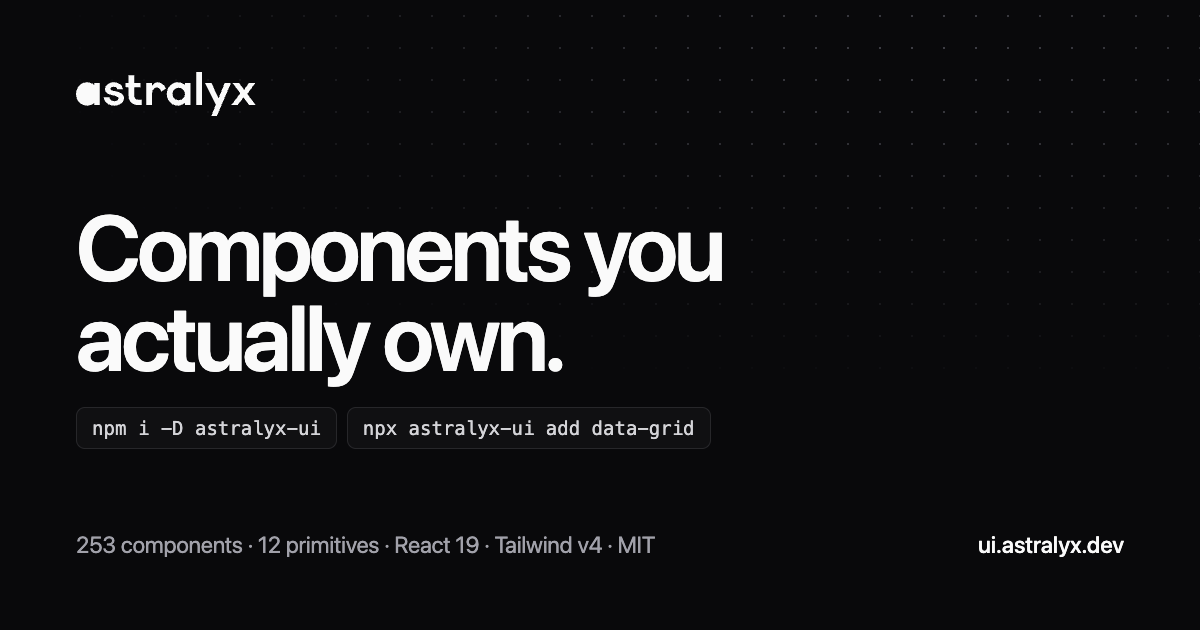
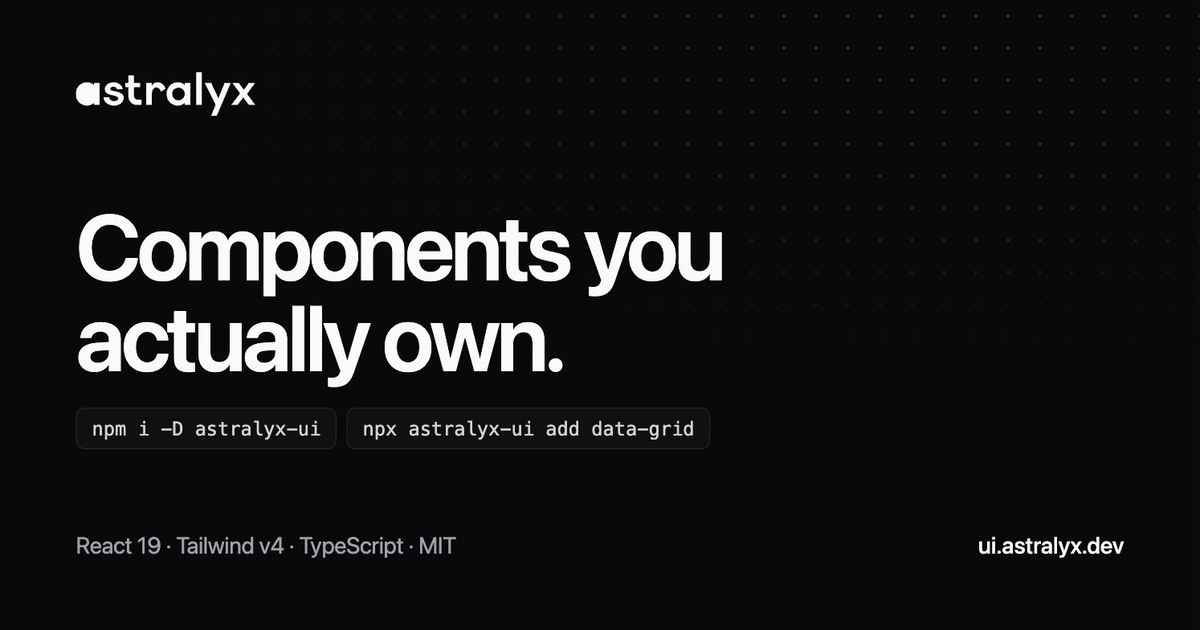
The link preview said 253 components
It has said 253 for as long as it took to add ninety more — in the meta
description, the OG and Twitter descriptions, the JSON-LD a search engine
reads, and burnt into the card image itself. The tags were all there and all
correct in shape; the copy inside them had rotted.

The counts come from the registry now. build-seo.mjs already loads ENTRIES to
build the sitemap, so the home description is composed from it and cannot
disagree with the catalogue again. The structured data was the one nobody was
rewriting at all, so it kept its own stale copy after the meta tags had been
corrected; it is rewritten from the same string.

The description was also being clamped mid-phrase. The old one ran to 163
characters against a 155 limit, so every search result ended on the word "at".
The new one fits.

The card is regenerated and quotes no count. An OG image is cached by every
platform that has ever unfurled the link, which makes it the worst place in
the site for a number that moves; it carries the durable facts and the live
count stays in the description. Its source now lives in the repo as
scripts/og-card.html rather than only as a PNG nobody could edit.

No version bump: nothing here changes a component.

diff --git a/scripts/og-card.html b/scripts/og-card.html
@@ -1,0 +1,54 @@
+<!--
+  The 1200x630 link preview at public/og.png is a render of this file.
+
+  Kept as source rather than only as the PNG, so the card can be changed
+  without redrawing it: open this in a browser at 1200x630 and capture it.
+
+  It deliberately quotes no component count. An OG image is cached by every
+  platform that has ever unfurled the link, which makes it the worst place
+  in the site for a number that moves — the last one said 253 for as long
+  as it took to add ninety more. The live count goes in the meta
+  description instead, where build-seo.mjs derives it from the registry.
+-->
+<!doctype html><meta charset="utf-8">
+<style>
+  *{margin:0;padding:0;box-sizing:border-box}
+  html,body{background:#18181b}
+  .card{
+    position:absolute;top:0;left:0;width:1200px;height:630px;
+    background:#09090b;color:#fafafa;overflow:hidden;
+    font-family:-apple-system,BlinkMacSystemFont,'Segoe UI',Helvetica,Arial,sans-serif;
+    display:flex;flex-direction:column;justify-content:space-between;
+    padding:72px 76px;
+  }
+  .dots{position:absolute;inset:0;
+    background-image:radial-gradient(#3f3f46 1.5px,transparent 1.5px);
+    background-size:32px 32px;
+    -webkit-mask-image:radial-gradient(120% 90% at 78% 8%,#000 0%,transparent 62%);}
+  .row{position:relative}
+  svg{height:44px;width:auto;fill:#fafafa}
+  h1{position:relative;font-size:92px;line-height:0.98;letter-spacing:-0.038em;font-weight:600;max-width:15ch}
+  .meta{position:relative;display:flex;align-items:flex-end;justify-content:space-between;gap:32px}
+  .meta p{font-size:23px;color:#a1a1aa;letter-spacing:-0.01em}
+  .dom{font-size:23px;color:#fafafa;font-weight:500}
+  .chips{position:relative;display:flex;gap:10px;margin-top:26px}
+  .chip{font-family:ui-monospace,SFMono-Regular,Menlo,monospace;font-size:19px;color:#d4d4d8;
+    border:1px solid #27272a;background:#101012;border-radius:9px;padding:9px 15px}
+</style>
+<div class="card">
+  <div class="dots"></div>
+  <div class="row"><svg viewBox="0 0 302 74"><path d="M239.679 44.226C239.679 44.226 250.226 18.461 250.226 18.461C250.226 18.461 260.641 18.461 260.641 18.461C260.641 18.461 236.918 74 236.918 74C236.918 74 227.49 74 227.49 74C227.49 74 235.173 55.236 235.173 55.236C235.173 55.236 216.847 18.461 216.847 18.461C216.847 18.461 227.796 18.461 227.796 18.461C227.796 18.461 239.679 44.226 239.679 44.226Z M18.628 17.231C22.025 17.231 25.092 18.102 27.83 19.846C28.874 20.511 29.836 21.266 30.718 22.11C30.718 22.11 30.718 18.461 30.718 18.461C30.718 18.461 39.995 18.461 39.995 18.461C39.995 18.461 39.995 55.384 39.995 55.384C39.995 55.384 30.718 55.384 30.718 55.384C30.718 55.384 30.718 51.736 30.718 51.736C29.836 52.58 28.874 53.336 27.83 54.001C25.092 55.744 22.025 56.616 18.628 56.616C15.181 56.616 12.038 55.744 9.2 54.001C6.361 52.257 4.106 49.898 2.433 46.924C0.811 43.898 0 40.564 0 36.923C0 33.231 0.811 29.897 2.433 26.923C4.106 23.949 6.361 21.589 9.2 19.846C12.038 18.102 15.181 17.231 18.628 17.231Z M63.338 17.231C66.177 17.231 68.761 17.769 71.093 18.846C73.425 19.872 75.275 21.283 76.643 23.078C78.063 24.821 78.772 26.795 78.772 29C78.772 29 69.345 29 69.345 29C69.345 28.231 69.066 27.513 68.508 26.846C68.001 26.18 67.292 25.667 66.379 25.308C65.467 24.949 64.453 24.77 63.338 24.77C62.324 24.77 61.411 24.923 60.6 25.231C59.789 25.539 59.13 25.974 58.623 26.538C58.167 27.051 57.939 27.641 57.939 28.308C57.939 28.974 58.167 29.538 58.623 30C59.13 30.41 59.789 30.769 60.6 31.076C61.411 31.333 62.349 31.59 63.414 31.846C64.478 32.051 65.593 32.256 66.758 32.462C68.33 32.769 69.927 33.18 71.549 33.693C73.222 34.155 74.743 34.794 76.111 35.615C77.48 36.384 78.57 37.437 79.382 38.77C80.243 40.052 80.673 41.718 80.673 43.769C80.673 46.127 79.939 48.307 78.469 50.307C77.049 52.256 75.097 53.796 72.614 54.924C70.13 56.052 67.368 56.616 64.327 56.616C61.032 56.616 58.066 55.974 55.43 54.692C52.794 53.41 50.69 51.693 49.119 49.539C47.547 47.385 46.761 44.975 46.761 42.309C46.761 42.309 56.19 42.309 56.19 42.309C56.19 43.539 56.545 44.692 57.254 45.769C58.014 46.794 59.03 47.615 60.297 48.23C61.614 48.794 63.059 49.077 64.63 49.077C65.897 49.077 67.038 48.872 68.052 48.462C69.116 48.052 69.952 47.487 70.561 46.769C71.169 46.051 71.473 45.257 71.473 44.385C71.473 43.462 71.144 42.718 70.485 42.154C69.877 41.59 69.04 41.129 67.976 40.77C66.912 40.411 65.745 40.078 64.478 39.77C62.856 39.36 61.133 38.949 59.308 38.538C57.483 38.077 55.759 37.513 54.137 36.847C52.566 36.129 51.272 35.154 50.259 33.923C49.245 32.693 48.738 31.103 48.738 29.155C48.738 26.95 49.372 24.949 50.639 23.154C51.957 21.308 53.707 19.872 55.886 18.846C58.117 17.769 60.601 17.231 63.338 17.231Z M171.294 17.231C174.69 17.231 177.757 18.102 180.494 19.846C181.538 20.511 182.501 21.266 183.383 22.11C183.383 22.11 183.383 18.461 183.383 18.461C183.383 18.461 192.659 18.461 192.659 18.461C192.659 18.461 192.659 55.384 192.659 55.384C192.659 55.384 183.383 55.384 183.383 55.384C183.383 55.384 183.383 51.736 183.383 51.736C182.501 52.58 181.538 53.336 180.494 54.001C177.757 55.744 174.69 56.616 171.294 56.616C167.847 56.616 164.704 55.744 161.865 54.001C159.026 52.257 156.771 49.898 155.098 46.924C153.476 43.898 152.665 40.564 152.665 36.923C152.665 33.231 153.476 29.897 155.098 26.923C156.771 23.949 159.026 21.589 161.865 19.846C164.704 18.102 167.847 17.231 171.294 17.231Z M97.951 18.461C97.951 18.461 108.368 18.461 108.368 18.461C108.368 18.461 108.368 25.538 108.368 25.538C108.368 25.538 97.951 25.538 97.951 25.538C97.951 25.538 97.951 40.385 97.951 40.385C97.951 41.513 98.205 42.564 98.712 43.539C99.219 44.462 99.903 45.205 100.765 45.769C101.627 46.333 102.615 46.615 103.73 46.615C103.73 46.615 110.65 46.615 110.65 46.615C110.65 46.615 110.65 55.384 110.65 55.384C110.65 55.384 102.058 55.384 102.058 55.384C99.523 55.384 97.217 54.717 95.139 53.384C93.06 52.051 91.413 50.257 90.196 48C88.98 45.693 88.371 43.154 88.371 40.385C88.371 40.385 88.371 25.538 88.371 25.538C88.371 25.538 83.352 25.538 83.352 25.538C83.352 25.538 83.352 18.461 83.352 18.461C83.352 18.461 88.371 18.461 88.371 18.461C88.371 18.461 88.371 5.462 88.371 5.462C88.371 5.462 97.951 5.462 97.951 5.462C97.951 5.462 97.951 18.461 97.951 18.461Z M137.585 17.231C139.613 17.231 141.538 17.718 143.363 18.692C145.239 19.667 146.836 21 148.154 22.693C149.523 24.334 150.461 26.205 150.968 28.308C150.968 28.308 143.136 33.076 143.136 33.076C142.781 31.743 142.224 30.538 141.463 29.461C140.703 28.384 139.79 27.538 138.725 26.923C137.712 26.256 136.596 25.923 135.379 25.923C133.96 25.923 132.668 26.385 131.503 27.308C130.388 28.18 129.499 29.41 128.84 31C128.232 32.589 127.928 34.461 127.928 36.615C127.928 36.615 127.928 55.384 127.928 55.384C127.928 55.384 118.347 55.384 118.347 55.384C118.347 55.384 118.347 18.461 118.347 18.461C118.347 18.461 127.928 18.461 127.928 18.461C127.928 18.461 127.928 22.82 127.928 22.82C128.852 21.496 129.892 20.376 131.046 19.461C132.972 17.974 135.152 17.231 137.585 17.231Z M211.82 55.384C211.82 55.384 202.392 55.384 202.392 55.384C202.392 55.384 202.392 0 202.392 0C202.392 0 211.82 0 211.82 0C211.82 0 211.82 55.384 211.82 55.384Z M282.703 29.779C282.703 29.779 290.975 18.461 290.975 18.461C290.975 18.461 301.62 18.461 301.62 18.461C301.62 18.461 288.043 36.867 288.043 36.867C288.043 36.867 302 55.384 302 55.384C302 55.384 291.127 55.384 291.127 55.384C291.127 55.384 281.706 42.886 281.706 42.886C281.706 42.886 272.042 55.384 272.042 55.384C272.042 55.384 261.399 55.384 261.399 55.384C261.399 55.384 276.409 35.858 276.409 35.858C276.409 35.858 263.3 18.461 263.3 18.461C263.3 18.461 274.171 18.461 274.171 18.461C274.171 18.461 282.703 29.779 282.703 29.779Z M172.738 26.308C170.761 26.308 168.962 26.795 167.34 27.77C165.768 28.692 164.501 29.949 163.538 31.538C162.625 33.128 162.169 34.923 162.169 36.923C162.169 38.872 162.625 40.667 163.538 42.309C164.501 43.898 165.768 45.179 167.34 46.154C168.962 47.077 170.761 47.539 172.738 47.539C174.715 47.539 176.489 47.077 178.061 46.154C179.683 45.179 180.95 43.898 181.862 42.309C182.826 40.719 183.307 38.923 183.307 36.923C183.307 34.923 182.826 33.128 181.862 31.538C180.95 29.898 179.683 28.616 178.061 27.693C176.489 26.77 174.715 26.308 172.738 26.308Z M3.168 30.547C3.226 37.041 8.95 42.386 16.336 43.171C16.278 36.678 10.554 31.332 3.168 30.547Z M30.889 30.968C24.687 32.524 20.149 37.393 20.098 43.171C22.037 42.965 23.862 42.443 25.5 41.67C27.688 40.637 29.542 39.154 30.889 37.366C30.889 37.366 30.889 30.968 30.889 30.968Z"/>
+<path d="M2.656 29.706C2.719 37.119 9.055 43.222 17.229 44.118C17.165 36.705 10.83 30.602 2.656 29.706Z"/>
+<path d="M31.527 30.455C24.625 32.186 19.576 37.605 19.518 44.034C21.676 43.805 23.707 43.224 25.53 42.364C27.964 41.214 30.028 39.564 31.527 37.575C31.527 37.575 31.527 30.455 31.527 30.455Z"/></svg></div>
+  <div>
+    <h1>Components you actually own.</h1>
+    <div class="chips">
+      <span class="chip">npm i -D astralyx-ui</span>
+      <span class="chip">npx astralyx-ui add data-grid</span>
+    </div>
+  </div>
+  <div class="meta">
+    <p>React 19 · Tailwind v4 · TypeScript · MIT</p>
+    <span class="dom">ui.astralyx.dev</span>
+  </div>
+</div>

diff --git a/index.html b/index.html
@@ -14,7 +14,7 @@
     <title>Astralyx UI — React components you own</title>
     <meta
       name="description"
-      content="253 accessible React components and 12 primitives for React 19 and Tailwind v4. A CLI copies the source into your repo — nothing is imported from a package at runtime."
+      content="343 accessible React components and 12 primitives for React 19 and Tailwind v4. A CLI copies the source into your repo — nothing is imported from a package at runtime."
     />
     <link rel="canonical" href="https://ui.astralyx.dev/" />
     <meta name="theme-color" content="#09090b" />
@@ -27,7 +27,7 @@
     <meta property="og:title" content="Astralyx UI — React components you own" />
     <meta
       property="og:description"
-      content="253 accessible React components and 12 primitives for React 19 and Tailwind v4. Installed as source by a CLI, not imported from a package."
+      content="343 accessible React components and 12 primitives for React 19 and Tailwind v4. Installed as source by a CLI, not imported from a package."
     />
     <meta property="og:url" content="https://ui.astralyx.dev/" />
     <meta property="og:image" content="https://ui.astralyx.dev/og.png" />
@@ -38,7 +38,7 @@
     <meta name="twitter:title" content="Astralyx UI — React components you own" />
     <meta
       name="twitter:description"
-      content="253 accessible React components and 12 primitives for React 19 and Tailwind v4."
+      content="343 accessible React components and 12 primitives for React 19 and Tailwind v4."
     />
     <meta name="twitter:image" content="https://ui.astralyx.dev/og.png" />
 
@@ -47,7 +47,7 @@
         "@context": "https://schema.org",
         "@type": "SoftwareSourceCode",
         "name": "Astralyx UI",
-        "description": "253 accessible React components and 12 primitives for React 19 and Tailwind v4, installed as source by a CLI.",
+        "description": "343 accessible React components and 12 primitives for React 19 and Tailwind v4, installed as source by a CLI.",
         "url": "https://ui.astralyx.dev/",
         "codeRepository": "https://github.com/astralyxdev/astralyx-ui",
         "programmingLanguage": "TypeScript",
